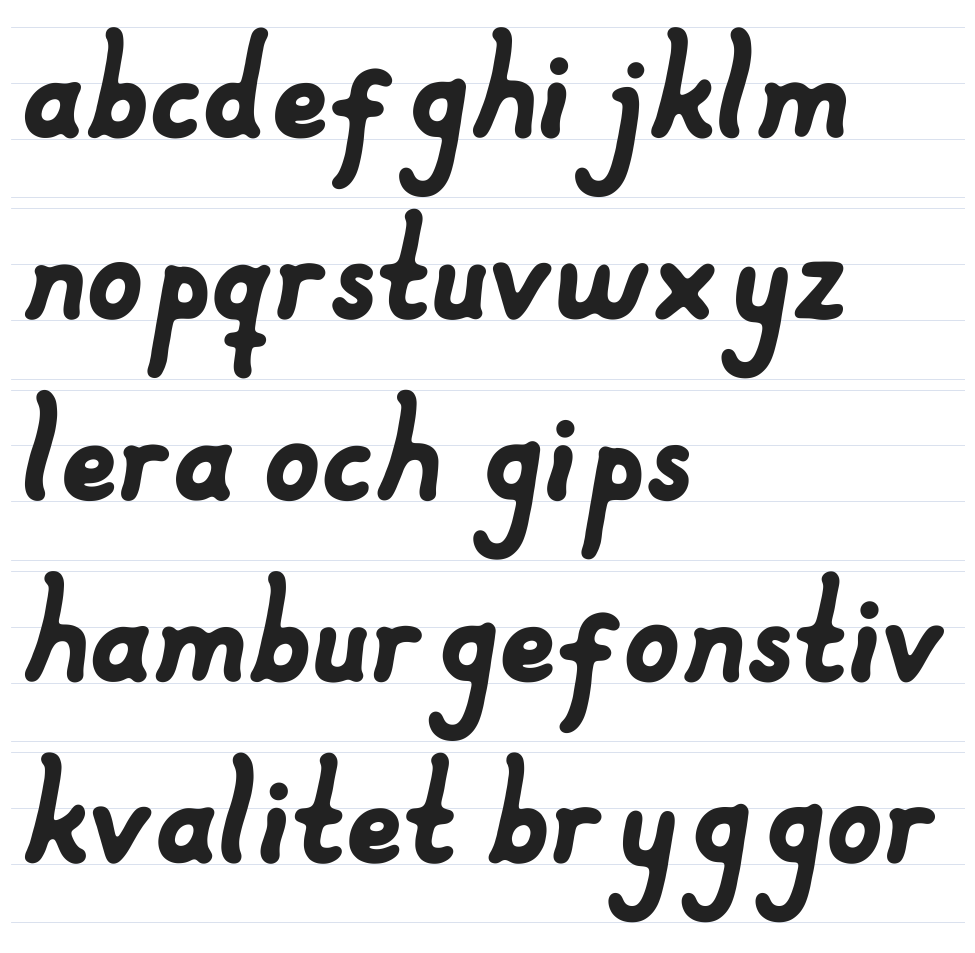
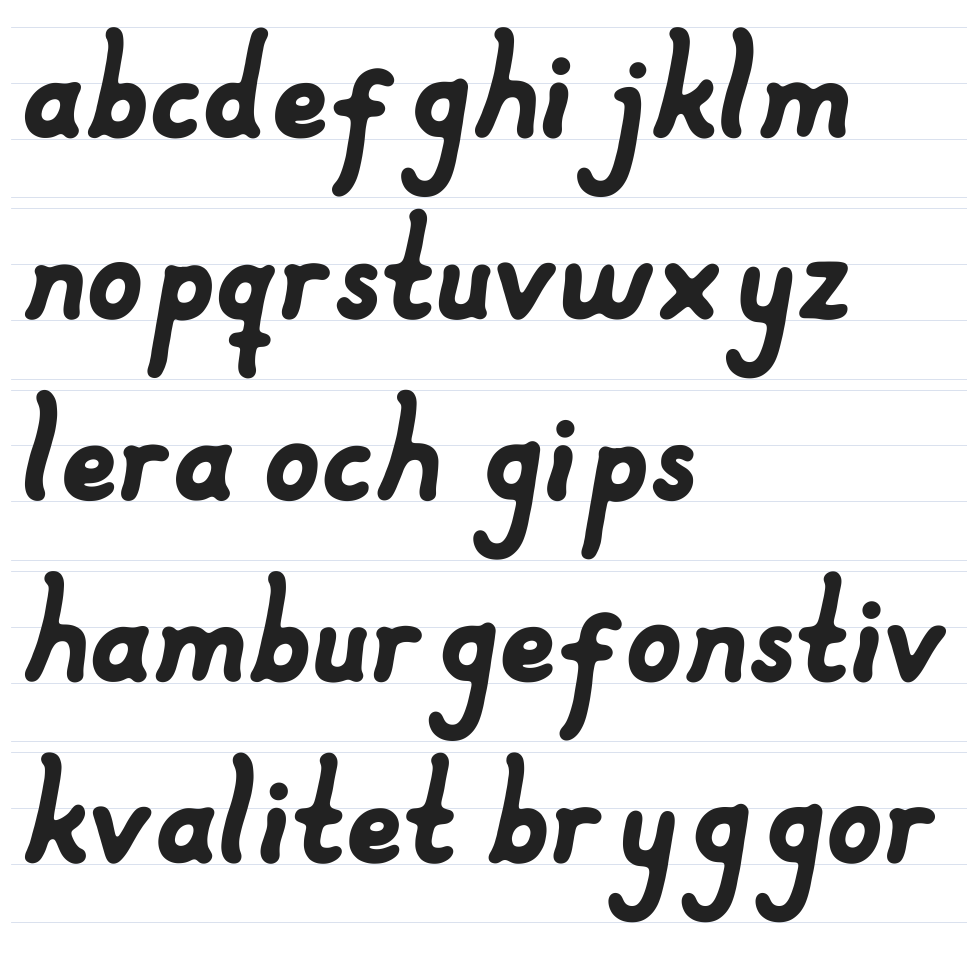
Ge f samma nedstapeldjup som g, j, y och p samma skål som b
f:s del under baslinjen skalas jämnt till 2,1. p_skal.py formar om
p:s skål och hål till b:s form med stammen och nedstapeln fasta.

Claude-Session: https://claude.ai/code/session_01G3Fa1qrTuHzte3kfXkaDtX

diff --git a/bokstaver/p_skal.py b/bokstaver/p_skal.py
@@ -1,0 +1,110 @@
+"""Ger p samma runda del (skål) som b.
+
+Skålens ytterkontur (delen till höger om stammen, mellan baslinjen och
+x-höjden) och hålets kontur plockas ut för både b och p, relativt stammens
+högerkant. p:s skål formas sedan om (RBF) så att båda konturerna får b:s
+form. Stammens vänsterkant och nedstapeln hålls fasta.
+
+    python3 p_skal.py slutlig
+"""
+import os
+import sys
+import numpy as np
+import trimesh
+from scipy.interpolate import RBFInterpolator
+
+from justera import ramp, slapp_i_hal
+from gemensam_sving import laga
+from rata_stam import kant
+
+K = np.tan(np.radians(10.0))
+N = 200
+
+
+def konturer(m):
+    z0, z1 = m.bounds[0, 2], m.bounds[1, 2]
+    s = m.section(plane_origin=[0, 0, z0 + 0.15 * (z1 - z0)], plane_normal=[0, 0, 1])
+    pl, _ = s.to_planar(to_2D=np.eye(4))
+    poly = max(pl.polygons_full, key=lambda p: p.area)
+    hal = max(poly.interiors, key=lambda r: abs(np.cross(np.diff(np.array(r.coords)[:, :2], axis=0)[:-1],
+                                                     np.diff(np.array(r.coords)[:, :2], axis=0)[1:]).sum()))
+    return np.array(poly.exterior.coords)[:-1], np.array(hal.coords)[:-1]
+
+
+def sampla(p, n=N, sluten=False):
+    if sluten:
+        p = np.vstack([p, p[:1]])
+    L = np.r_[0, np.cumsum(np.hypot(*np.diff(p, axis=0).T))]
+    s = np.linspace(0, L[-1], n, endpoint=not sluten)
+    return np.column_stack([np.interp(s, L, p[:, 0]), np.interp(s, L, p[:, 1])])
+
+
+def stamlinje(m, bas):
+    """Stammens högerkant som en rak linje x = a + K*(y - bas), mätt mitt i x-höjden."""
+    ys = np.linspace(bas + 0.6, bas + 1.4, 9)
+    xs = []
+    for y in ys:
+        z0, z1 = m.bounds[0, 2], m.bounds[1, 2]
+        s = m.section(plane_origin=[0, y, z0 + 0.15 * (z1 - z0)], plane_normal=[0, 1, 0])
+        bit = sorted((d[:, 0].min(), d[:, 0].max()) for d in s.discrete)
+        xs.append(bit[0][1] if len(bit) > 1 else np.nan)
+    xs = np.array(xs); ok = ~np.isnan(xs)
+    return np.mean(xs[ok] - K * (ys[ok] - bas))
+
+
+def skalbage(m, bas, a):
+    """Ytterkonturen till höger om stamlinjen mellan baslinjen och x-höjden,
+    ordnad uppifrån (vid stammen), runt skålen, ner till stammen."""
+    yt, hal = konturer(m)
+    linje = lambda y: a + K * (y - bas)
+    hoger = (yt[:, 0] > linje(yt[:, 1]) + 0.05) & (yt[:, 1] > bas - 0.15) & (yt[:, 1] < bas + 2.2)
+    idx = np.nonzero(hoger)[0]
+    # längsta sammanhängande bit
+    brott = np.nonzero(np.diff(idx) > 1)[0]
+    delar = np.split(idx, brott + 1)
+    if len(delar) > 1 and delar[0][0] == 0 and delar[-1][-1] == len(yt) - 1:
+        delar = [np.r_[delar[-1], delar[0]]] + delar[1:-1]
+    bit = yt[max(delar, key=len)]
+    if bit[0, 1] < bit[-1, 1]:
+        bit = bit[::-1]
+    # hålet: börja i översta punkten, medurs
+    i = np.argmax(hal[:, 1]); hal = np.roll(hal, -i, axis=0)
+    if np.cross(hal[1] - hal[0], hal[2] - hal[1]) > 0:
+        hal = np.vstack([hal[:1], hal[1:][::-1]])
+    return sampla(bit), sampla(hal, sluten=True)
+
+
+def main():
+    mapp = sys.argv[1]
+    b = trimesh.load(os.path.join(mapp, "b.stl")); bas_b = -10.0
+    p = trimesh.load(os.path.join(mapp, "p.stl")); bas_p = 0.0
+    ab, ap = stamlinje(b, bas_b), stamlinje(p, bas_p)
+    bage_b, hal_b = skalbage(b, bas_b, ab)
+    bage_p, hal_p = skalbage(p, bas_p, ap)
+    # b:s former flyttade till p:s stam och baslinje
+    flytta = np.array([ap - ab, bas_p - bas_b])
+    mal_bage, mal_hal = bage_b + flytta, hal_b + flytta
+    # ändpunkterna av bågen ska sitta kvar mot p:s stam: tona in skillnaden
+    t = np.linspace(0, 1, N)[:, None]
+    for k, tt in ((0, 1 - np.minimum(t * 5, 1)), (-1, 1 - np.minimum((1 - t) * 5, 1))):
+        mal_bage += (bage_p[k] - mal_bage[k]) * tt
+    yt, _ = konturer(p)
+    linje = lambda y: ap + K * (y - bas_p)
+    fast = yt[(yt[:, 0] < linje(yt[:, 1]) - 0.15) | (yt[:, 1] < bas_p - 0.5)]
+    pts = np.vstack([bage_p, hal_p, fast])
+    val = np.vstack([mal_bage - bage_p, mal_hal - hal_p, np.zeros_like(fast)])
+    rbf = RBFInterpolator(pts, val, kernel="thin_plate_spline", smoothing=1e-4)
+    v = p.vertices.copy()
+    omr = (v[:, 1] > bas_p - 0.6) & (v[:, 0] > linje(v[:, 1]) - 0.25)
+    w = (ramp(v[omr, 1], bas_p - 0.6, bas_p - 0.2) * ramp(v[omr, 0], linje(v[omr, 1]) - 0.25, linje(v[omr, 1]) + 0.05))[:, None]
+    v[omr, :2] += rbf(v[omr, :2]) * w
+    ny = trimesh.Trimesh(v, p.faces, process=False)
+    ny, _ = slapp_i_hal(laga(ny)); ny = laga(ny)
+    nb, nh = skalbage(ny, bas_p, stamlinje(ny, bas_p))
+    print(f"p: största flytt {np.abs(val).max():.3f}, avvikelse från b:s skål efteråt: båge {np.abs(nb - mal_bage).max():.3f}, "
+          f"hål {np.abs(nh - mal_hal).max():.3f}, vattentät {ny.is_watertight}")
+    ny.export(os.path.join(mapp, "p.stl"))
+
+
+if __name__ == "__main__":
+    main()

diff --git a/bokstaver/utan_knyck.py b/bokstaver/utan_knyck.py
@@ -23,7 +23,7 @@ BOKST = {"g": 0.0, "j": 0.0, "p": 0.0, "q1": 0.0, "q2": 0.0, "y": 0.0, "f": -20.
 # Uppstaplar: höjden ställs in genom jämn skalning ovanför x-höjdsområdet
 UPPST = {"b": -10.00, "d1": -10.01, "h": -0.06, "k": -0.09, "l": -19.96,
          "t1": -20.04, "t2": -20.05, "L": -20.10, "utropstecken": 0.0}
-BEHALL_DJUP = {"f"}  # f behåller sitt originaldjup
+BEHALL_DJUP = set()  # alla nedstaplar, även f, får samma djup
 
 
 def skaltopp(m, bas):
